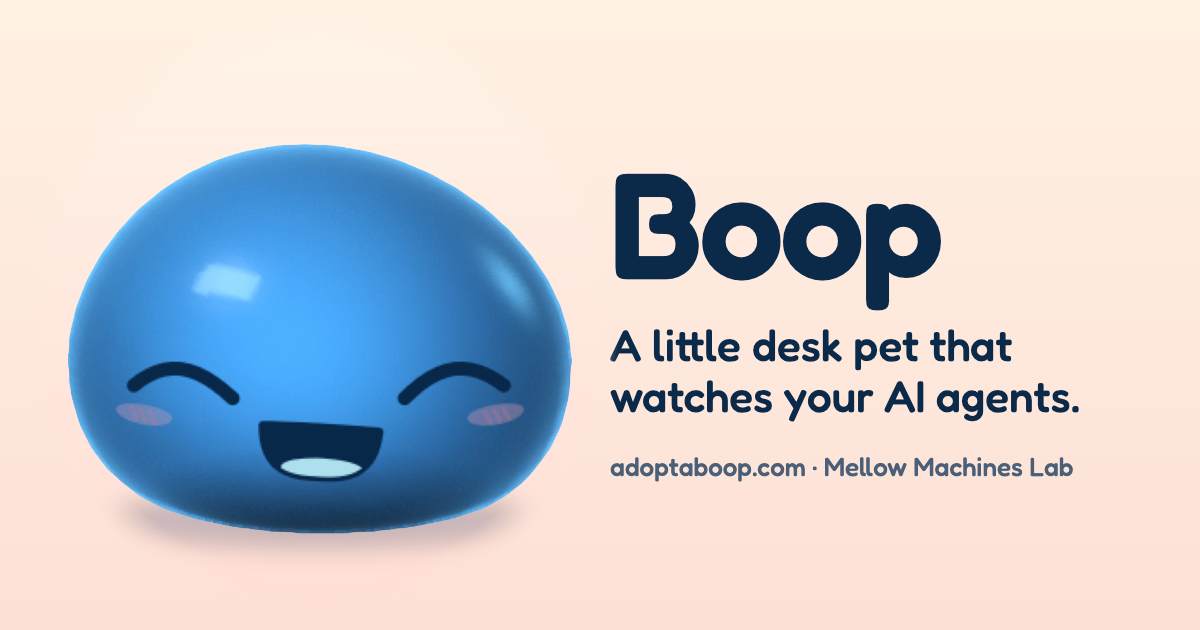
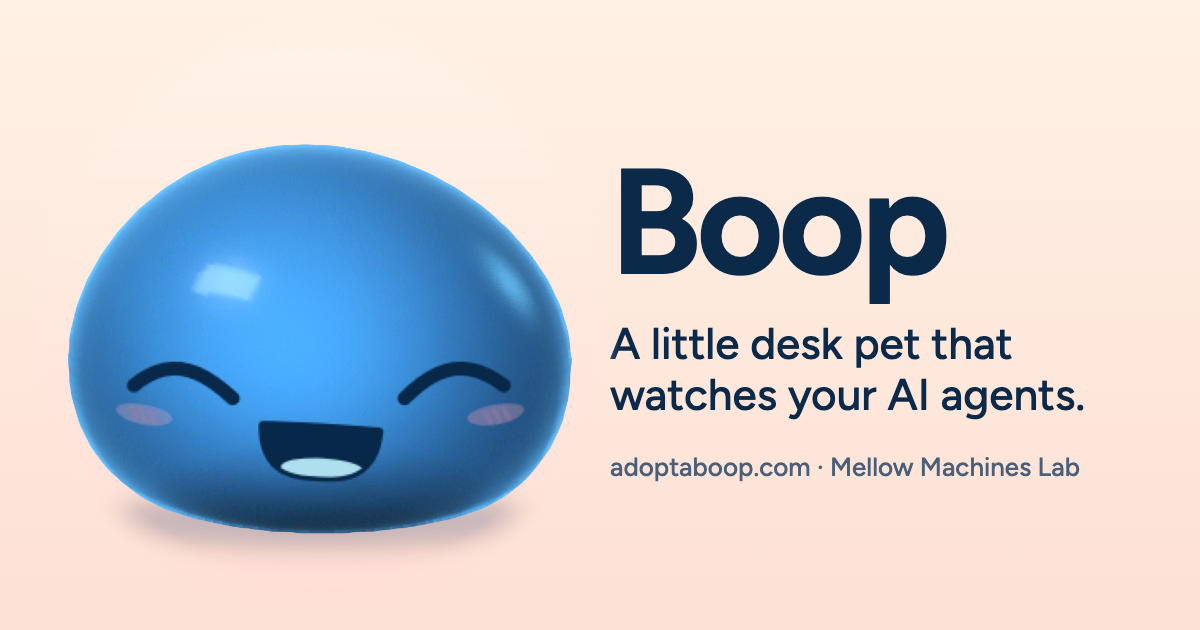
Hero fills the first screen; calmer heading font
The hero is now exactly one viewport tall, with its screen sized from
the viewport height, so the next section no longer peeks in. Headings
use Figtree in place of Fredoka, which read as cartoonish. The OG image
uses the same face.

Changed region(s): [[0.4933, 0.2413, 0.8633, 0.573], [0.4933, 0.6032, 0.925, 0.6635], [0.4933, 0.7238, 0.8942, 0.754]]

diff --git a/src/components/sections/Hero.tsx b/src/components/sections/Hero.tsx
@@ -23,17 +23,24 @@ export function Hero() {
   const film = hasHeroFilm();
 
   return (
-    <section data-section="S1" aria-label={copy.brand.wordmark} className="px-5 pb-14 pt-5 md:pb-24">
-      <div className="mx-auto max-w-[1040px]">
+    <section
+      data-section="S1"
+      aria-label={copy.brand.wordmark}
+      className="flex min-h-[100svh] flex-col px-5 pb-8 pt-5 md:pb-12"
+    >
+      {/* The hero fills the first screen exactly, so the next section never
+          peeks in from below. The content sits in the middle of what is left
+          under the wordmark. */}
+      <div className="mx-auto flex w-full max-w-[1040px] flex-1 flex-col">
         <p className="flex items-baseline gap-3">
-          <span className="font-display text-2xl font-semibold tracking-[-0.01em]">
+          <span className="font-display text-2xl font-bold tracking-[-0.02em]">
             {copy.brand.wordmark}
           </span>
           <span className="text-sm text-ink-soft">{copy.brand.byline}</span>
         </p>
 
-        <div className="mt-4 grid items-center gap-5 md:mt-14 md:grid-cols-[1fr_1.05fr] md:gap-14">
-          <div className="relative mx-auto w-full max-w-[17rem] md:order-2 md:max-w-[29rem]">
+        <div className="my-auto grid items-center gap-5 py-4 md:grid-cols-[1fr_1.05fr] md:gap-14 md:py-8">
+          <div className="relative mx-auto w-full max-w-[min(17rem,34svh)] md:order-2 md:max-w-[min(29rem,62svh)]">
             {film ? (
               <video
                 className="block w-full rounded-[1.75rem] bg-bezel shadow-[0_18px_40px_-12px_rgb(11_42_74/0.45)]"
@@ -50,7 +57,7 @@ export function Hero() {
               <>
                 <BoardScreen name="boop-day" alt={copy.hero.screenAlt} priority />
                 <p
-                  className={`${scribbleClass} mt-2 flex items-start justify-center gap-1 !text-xl md:mt-4 md:justify-end md:!text-2xl`}
+                  className={`${scribbleClass} mt-2 flex items-start justify-center gap-1 !text-xl md:mt-4 md:justify-end md:!text-2xl hide-when-short`}
                 >
                   <span className="-rotate-2 whitespace-nowrap">{copy.hero.scribble}</span>
                   <DoodleArrow className="h-8 w-10 shrink-0 -translate-y-2" />
@@ -60,7 +67,7 @@ export function Hero() {
           </div>
 
           <div className="md:order-1">
-            <h1 className="text-[clamp(2.1rem,8.2vw,3.9rem)] font-semibold leading-[1.04] tracking-[-0.015em]">
+            <h1 className="text-[clamp(2.05rem,7.6vw,3.75rem)] font-bold leading-[1.05] tracking-[-0.025em]">
               {copy.hero.headline}
             </h1>
             <p className="mt-3 max-w-xl leading-relaxed text-ink-soft md:mt-4 md:text-lg">

diff --git a/scripts/og.html b/scripts/og.html
@@ -5,19 +5,19 @@
   <head>
     <meta charset="utf-8" />
     <link rel="preconnect" href="https://fonts.googleapis.com" />
-    <link href="https://fonts.googleapis.com/css2?family=Fredoka:wght@500;600&display=block" rel="stylesheet" />
+    <link href="https://fonts.googleapis.com/css2?family=Figtree:wght@500;700&display=block" rel="stylesheet" />
     <style>
       * { margin: 0; box-sizing: border-box; }
       body {
         width: 1200px; height: 630px; overflow: hidden;
         background: linear-gradient(180deg, #fff1e4 0%, #fde0d5 100%);
-        color: #0b2a4a; font-family: "Fredoka", ui-rounded, system-ui, sans-serif;
+        color: #0b2a4a; font-family: "Figtree", system-ui, sans-serif;
         display: flex; align-items: center;
       }
       img { width: 600px; height: 600px; margin: 0 -10px 0 20px; flex: none;
         -webkit-mask-image: radial-gradient(closest-side, #000 88%, transparent); }
       .words { padding-right: 70px; }
-      .mark { font-size: 150px; font-weight: 600; letter-spacing: -0.02em; line-height: 1; }
+      .mark { font-size: 150px; font-weight: 700; letter-spacing: -0.035em; line-height: 1; }
       .line { margin-top: 22px; font-size: 44px; font-weight: 500; line-height: 1.15; }
       .by { margin-top: 30px; font-size: 26px; font-weight: 500; color: #4b6078; }
     </style>

diff --git a/src/app/layout.tsx b/src/app/layout.tsx
@@ -1,5 +1,5 @@
 import type { Metadata, Viewport } from "next";
-import { Caveat, Fredoka } from "next/font/google";
+import { Caveat, Figtree } from "next/font/google";
 import { GeistSans } from "geist/font/sans";
 import { GeistMono } from "geist/font/mono";
 import { Analytics } from "@vercel/analytics/next";
@@ -12,11 +12,11 @@ import "@/styles/globals.css";
 
 const siteUrl = process.env.NEXT_PUBLIC_SITE_URL ?? "https://www.adoptaboop.com";
 
-// A rounded display face for headings, and a handwritten one for the few
-// scribbled labels. Body text stays Geist; Boop's voice is Geist Mono.
-const display = Fredoka({
+// A friendly geometric face for headings (soft, but not cartoonish), and a
+// handwritten one for the two scribbled labels. Body text is Geist.
+const display = Figtree({
   subsets: ["latin"],
-  weight: ["500", "600"],
+  weight: ["500", "600", "700"],
   variable: "--font-display",
   display: "swap",
 });

diff --git a/src/components/DocPage.tsx b/src/components/DocPage.tsx
@@ -14,10 +14,10 @@ export function DocPage({
 }) {
   return (
     <main className="mx-auto max-w-2xl px-5 pb-24 pt-5">
-      <Link href="/" className="font-display text-2xl font-semibold tracking-[-0.01em]">
+      <Link href="/" className="font-display text-2xl font-bold tracking-[-0.02em]">
         {copy.brand.wordmark}
       </Link>
-      <h1 className="mt-12 text-[clamp(2rem,7vw,2.75rem)] font-semibold leading-[1.1]">
+      <h1 className="mt-12 text-[clamp(2rem,7vw,2.75rem)] font-bold leading-[1.1] tracking-[-0.02em]">
         {heading}
       </h1>
       {children}

diff --git a/src/app/welcome/page.tsx b/src/app/welcome/page.tsx
@@ -32,7 +32,7 @@ export default async function WelcomePage({
         priority
         className="h-40 w-40 rounded-[2rem] border-2 border-ink/10"
       />
-      <h1 className="mt-8 text-[clamp(2.1rem,8vw,3.25rem)] font-semibold leading-[1.05]">
+      <h1 className="mt-8 text-[clamp(2.1rem,8vw,3.25rem)] font-bold leading-[1.05] tracking-[-0.02em]">
         {copy.welcome.heading}
       </h1>
       <p className="mt-4 max-w-md text-lg leading-relaxed text-ink-soft">{copy.welcome.subline}</p>

diff --git a/src/components/Section.tsx b/src/components/Section.tsx
@@ -30,7 +30,7 @@ export function Section({
 
 export function SectionHeading({ children }: { children: ReactNode }) {
   return (
-    <h2 className="text-[clamp(1.9rem,6vw,2.75rem)] font-semibold leading-[1.1] tracking-[-0.01em]">
+    <h2 className="text-[clamp(1.8rem,5.6vw,2.6rem)] font-bold leading-[1.1] tracking-[-0.02em]">
       {children}
     </h2>
   );

diff --git a/src/styles/globals.css b/src/styles/globals.css
@@ -96,6 +96,14 @@ h3 {
   animation: needs-you 2.4s var(--ease-gel) infinite;
 }
 
+/* On a short phone the hero drops its scribbled label, so the form still fits
+   on the first screen. */
+@media (max-height: 700px) {
+  .hide-when-short {
+    display: none;
+  }
+}
+
 @media (prefers-reduced-motion: reduce) {
   html {
     scroll-behavior: auto;
